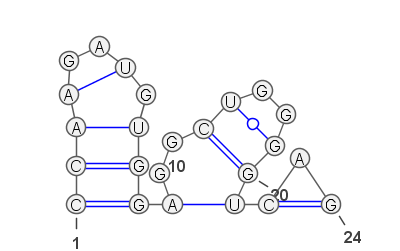
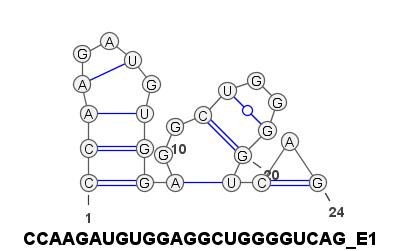
energy 2 modified

Changed region(s): [[0.06, 0.1116, 0.96, 1.0]]

diff --git a/rna_prediction.py b/rna_prediction.py
@@ -211,14 +211,64 @@ def generate_image():
     print('VARNA CONNECTION STRING: ', connections)
     print('='*CONSOLE_LINE_LENGTH_, '\n')
 
+    # print stats
+    print_statistics(pairing_dict)
+
     # image output name and path
     image_name = SEQUENCE+'_'+str(ENERGY_FUNC)+'.png'
     image_file = os.path.join(GENERATED_IMAGES_DIR,image_name)
+    image_title = "{}_E{}".format(SEQUENCE,ENERGY_FUNC)
     print('RUNNING VARNA. GENERATING IMAGE...')
     # VARNA command
-    cmd = 'java -cp {} fr.orsay.lri.varna.applications.VARNAcmd -sequenceDBN {} -structureDBN {} -o {}'.format(VARNA_JAR,SEQUENCE,connections,image_file)
+    base_cmd = 'java -cp {} fr.orsay.lri.varna.applications.VARNAcmd'.format(VARNA_JAR)
+    params = ' -sequenceDBN {} -structureDBN {} -title {} -o {}'.format(SEQUENCE,connections,image_title,image_file)
     # VARNA applet run
-    os.system(cmd)
-        
+    os.system(base_cmd + params)
+
+def print_statistics(pairing_dictionary):
+    """
+    Prints information about the sequence and the predicted
+    secondary structure
+    """
+    sequence_dict = dict(enumerate(SEQUENCE, start=1))
+    len_seq = len(SEQUENCE)
+    pairings = len(pairing_dictionary)
+    paired_bases = pairings * 2
+    cg_pairings = 0
+    au_pairings = 0
+    gu_pairings = 0
+
+    for k,v in pairing_dictionary.items():
+        base_1 = sequence_dict[k]
+        base_2 = sequence_dict[v]
+        pairing = set([base_1,base_2])
+        if pairing == set(['C','G']): cg_pairings += 1  
+        if pairing == set(['A','U']): au_pairings += 1  
+        if pairing == set(['G','U']): gu_pairings += 1  
+    cg_prop = cg_pairings / pairings
+    au_prop = au_pairings / pairings
+    gu_prop = gu_pairings / pairings
+
+    stats = {
+        'SEQUENCE LENGTH:':[len_seq,'-'],
+        'NUM. PAIRINGS:':[pairings,'-'],
+        'NUM. PAIRED BASES:':[paired_bases,'-'],
+        'NUM. CG PAIRINGS:':[cg_pairings,'-'],
+        'NUM. AU PAIRINGS:':[au_pairings,'-'],
+        'NUM. GU PAIRINGS:':[gu_pairings,'-'],
+        'PROP. CG PAIRINGS:':[cg_prop, '0.53'],
+        'PROP. AU PAIRINGS:':[au_prop, '0.35'],
+        'PROP. GU PAIRINGS:':[gu_prop, '0.12'],
+
+    }
+    (print('STATS OF SEQUENCE: E{} - {}'.format(ENERGY_FUNC,SEQUENCE)))
+    print('='*CONSOLE_LINE_LENGTH_)
+    print ("{:<20} {:<20} {:<20}".format('', 'PREDICTED', 'EXPECTED'))
+    for k, v in stats.items():
+        pred, expected = v
+        print ("{:<20} {:<20.2f} {:<20}".format(k, pred, expected))
+    print('='*CONSOLE_LINE_LENGTH_,'\n')
+
+
 if __name__ == '__main__':
     main()
